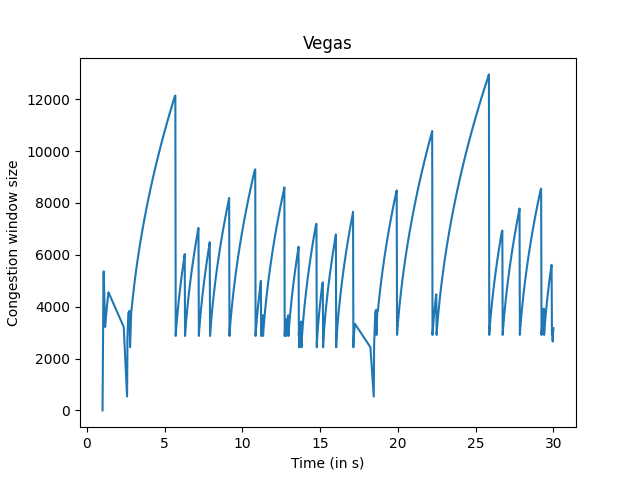
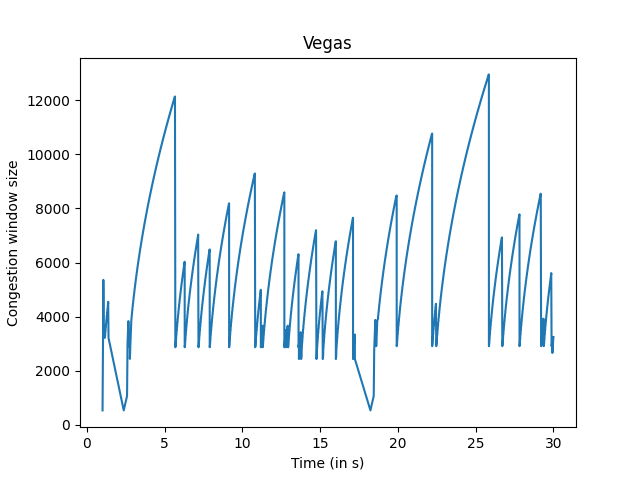
plotted time v/s new window size | earlier did old window size

diff --git a/Assignment-3/plot.py b/Assignment-3/plot.py
@@ -16,7 +16,7 @@ for FILE_NAME in onlyfiles:
 
     for t in A:
         time.append(t[0])
-        size.append(int(t[1]))
+        size.append(int(t[2]))
 
     plt.plot(time, size)
     plt.xlabel("Time (in s)")
